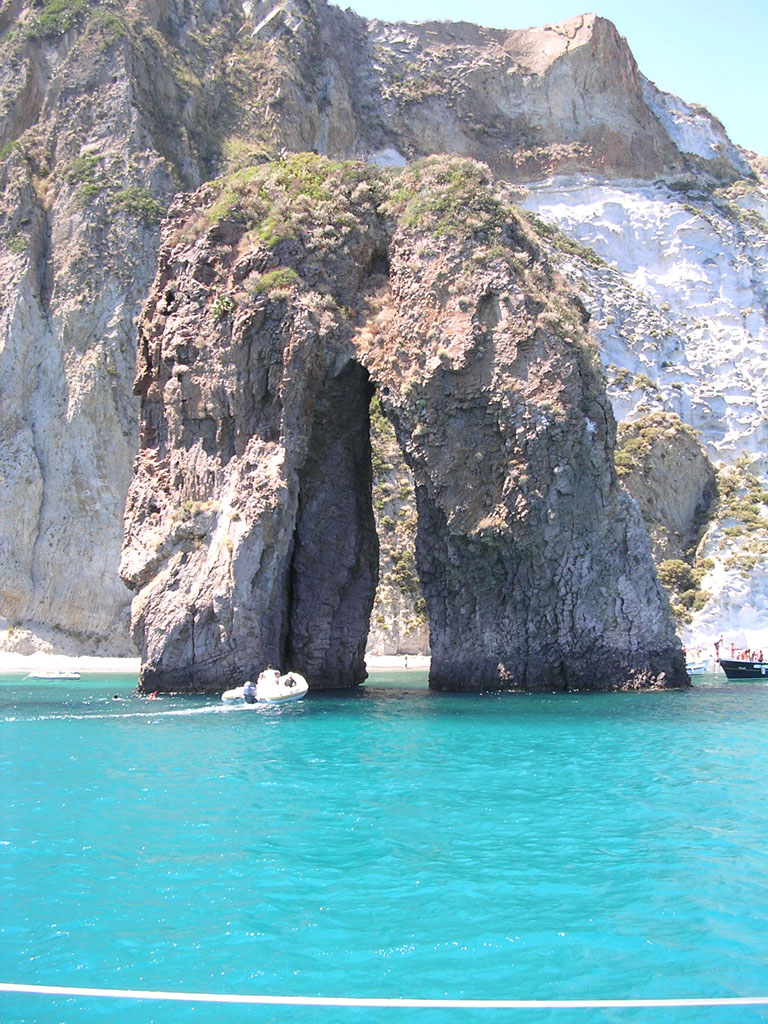
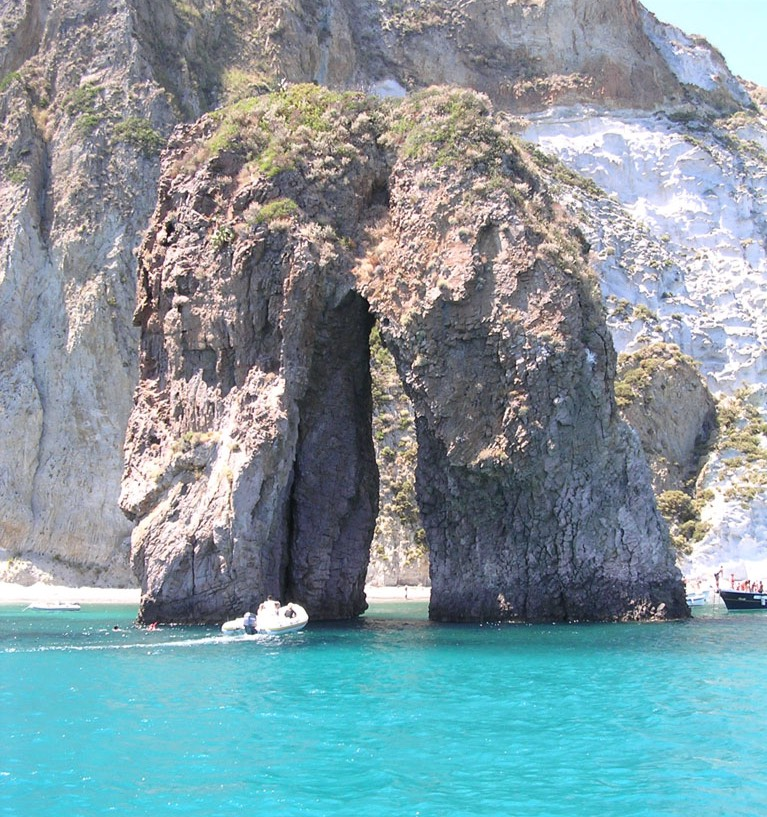
aggiunte isole egadi

diff --git a/crociere.html b/crociere.html
@@ -2178,9 +2178,6 @@
                         Transfer da e per aereoporti <br/>
                     </p>
                     <br/>
-                    <p style="font-size:15px">
-                        La crociera deve raggiungere un minimo di 4 partecipanti
-                    </p>
                 </div>
             </div>
             <br/>
@@ -2189,6 +2186,40 @@
             </p>
         </div>
     </section>
+
+    <section class="post">
+        <div class="container">
+
+            <div class="row" >
+                <div class="col-sm-6 col-md-6  col-lg-6">
+                    <img src="images/levanzo_sea.jpg" class="img-responsive image_back" alt="img">
+                </div>
+
+                <div class="col-sm-6 col-md-6 col-lg-6">
+                    <h2>Isole Egadi</h2>
+                    <p>
+                        PRISCILLA Oceanis Clipper 46 (4 cabine - 2 bagni) <br/>
+
+                        Imbarco e sbarco<br/>
+                        Porto turistico di Marsala  <br/><br/>
+
+                        1-8 agosto 2014: quota a persona € 700  <br>
+                        8-15 agosto 2014: quota a persona € 700 <br>
+                        15-22 agosto 2014: quota a persona € 700 <br>
+                        22-29 agosto 2014: quota a persona € 700 <br>
+                        29 agosto – 5 settembre 2014: quota a persona € 700<br>
+                        5-12 settembre 2014: quota a persona € 550 <br>
+                    </p>
+                    <br/>
+                </div>
+            </div>
+            <br/>
+            <p class="infoPrenotazioni">
+                Per prenotare o per qualsiasi informazione mandaci una mail: <a href="mailto:info@velalvento.com?Subject=Info%20e%20Prenotazioni">info@velalvento.com</a> oppure contattaci: Cristiana 348-0163701 Roberto 331-6031166
+            </p>
+        </div>
+    </section>
+
 
     <section class="post">
         <div class="container">
@@ -2212,21 +2243,15 @@
                     <br/>
                     <p>
                         Quote a persona: <br>
-                        18-25 luglio quota a persona € 650 - solo skipper   <br>
-                        25 luglio – 1 agosto 2014 quota a persona € 750 - solo skipper  <br>
-                        1-8  agosto 2014 quota a persona € 850 - skipper e hostess  <br>
-                        8-15  agosto 2014 quota a persona € 850- skipper e hostess   <br>
-                        15-22  agosto 2014 quota a persona € 850- skipper e hostess   <br>
-                        22-29  agosto 2014 quota a persona € 750- skipper e hostess  <br>
-                        29  agosto – 5 settembre 2014 quota a persona € 650 - solo skipper<br>
+                        18-25 luglio: quota a persona € 650 - solo skipper (crociera di trasferimento La Spezia - Formia)  <br>
+                        25 luglio – 1 agosto 2014: quota a persona € 750 - solo skipper  <br>
+                        1-8  agosto 2014: quota a persona € 850 - skipper e hostess  <br>
+                        8-15  agosto 2014: quota a persona € 850- skipper e hostess   <br>
+                        15-22  agosto 2014: quota a persona € 850- skipper e hostess   <br>
+                        22-29  agosto 2014: quota a persona € 750- skipper e hostess  <br>
+                        29  agosto – 5 settembre 2014: quota a persona € 650 - solo skipper<br>
 
                         <br>
-
-                        Sono inclusi nella quota: imbarcazione completa di tutte le attrezzatura con skipper,
-                        assicurazioni per la barca, biancheria per il letto e asciugamani, attrezzatura snorkeling. <br/>
-                        Sono escluse dalla quota: le spese per cambusa, carburanti e porti (incluso quello di imbarco
-                        e sbarco), spese di lavanderia:  per queste spese (circa 25 € gg a persona) si farà una cassa
-                        comune gestita dagli ospiti, skipper e hostess sono spesati di tutto e non partecipano alla cassa comune.
                     </p>
                     <br/>
                 </div>
